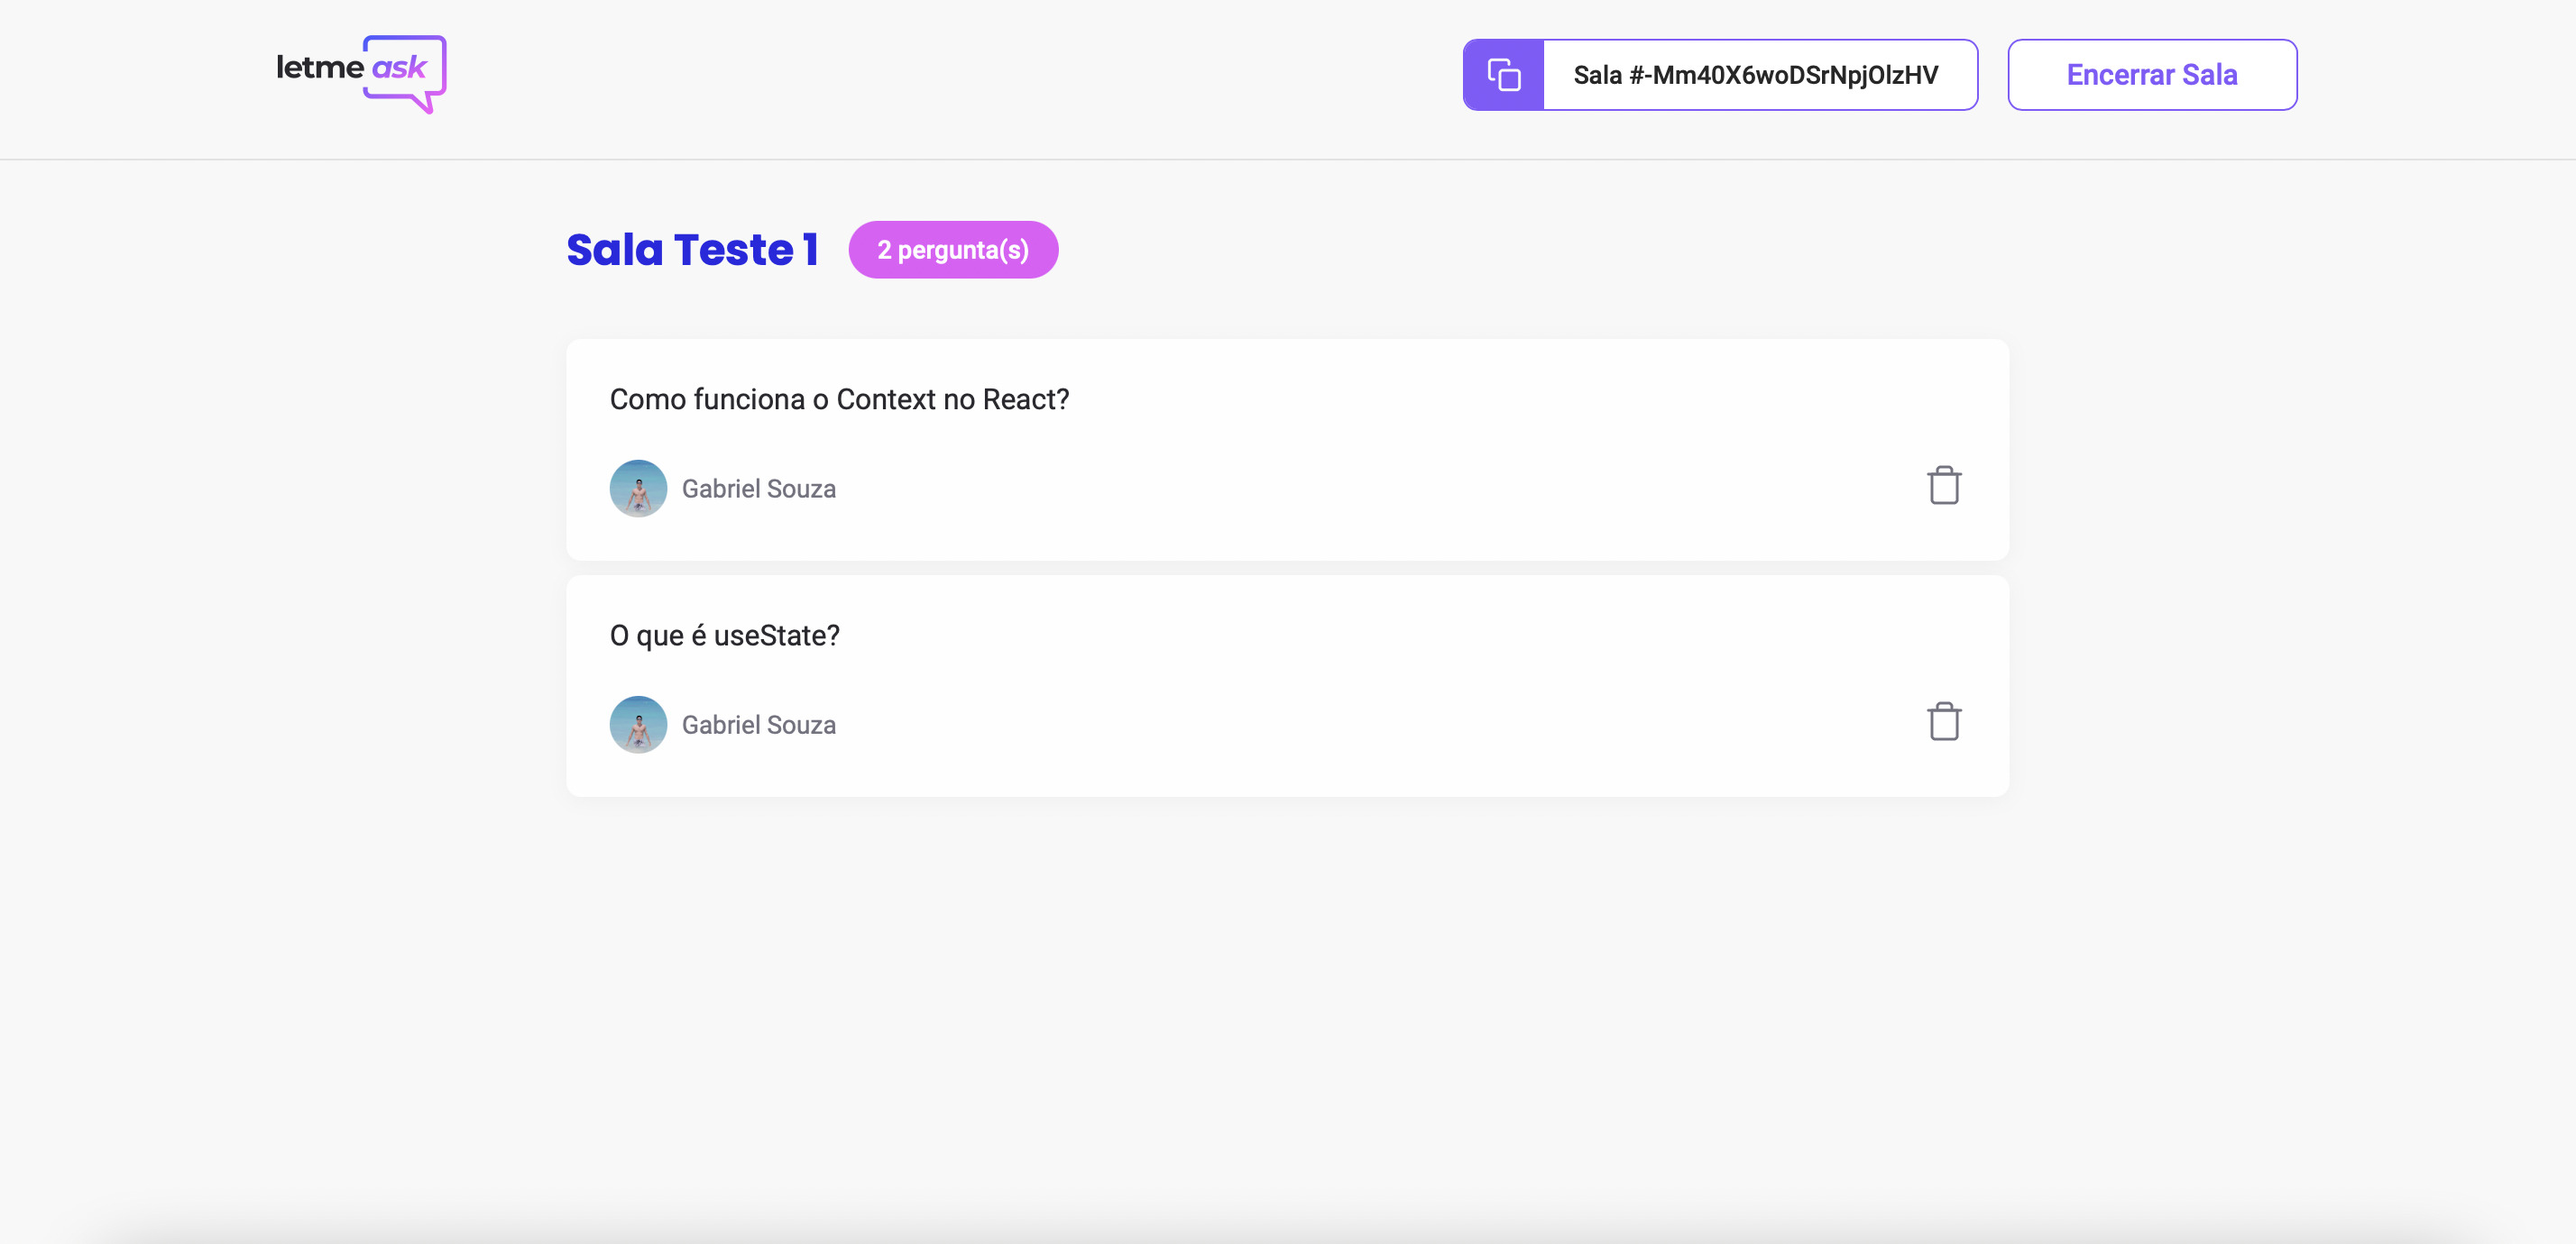
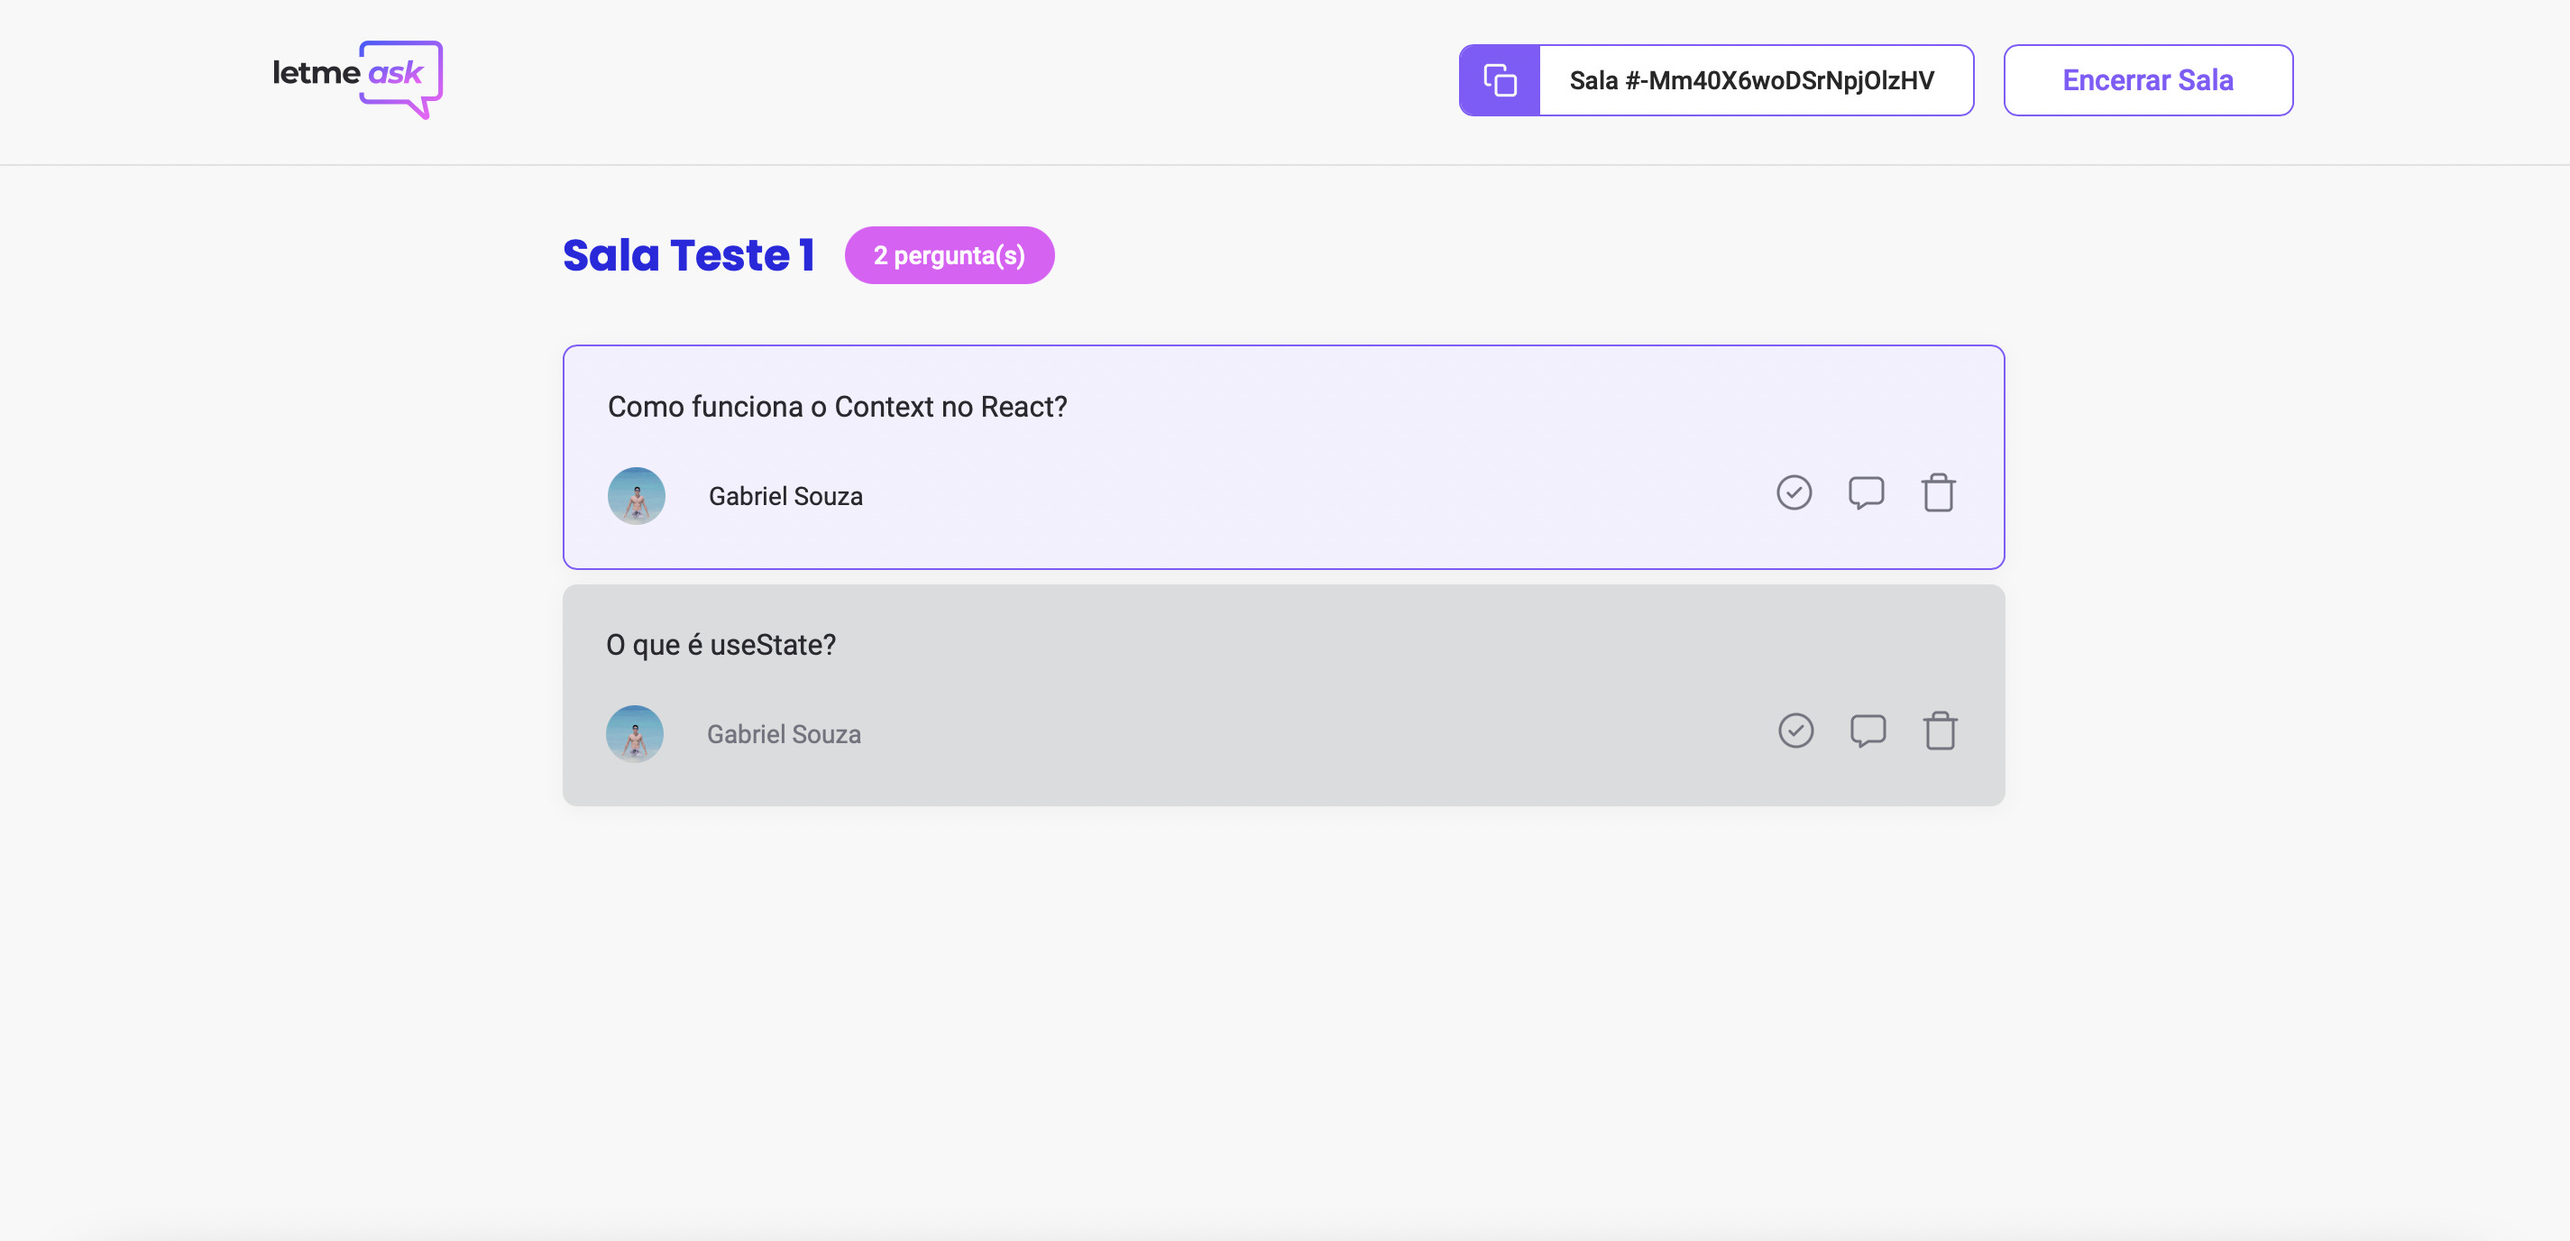
dia 5 completo

diff --git a/src/Pages/Room.tsx b/src/Pages/Room.tsx
@@ -98,32 +98,40 @@ const Room = () => {
                 key={question.id}
                 content={question.content}
                 author={question.author}
+                isAnswered={question.isAnswered}
+                isHighlighted={question.isHighlighted}
               >
-                <button
-                  className={`like-button ${question.hasLiked ? `liked` : ``}`}
-                  type="button"
-                  aria-label="Marcar como gostei."
-                  onClick={() =>
-                    handleLikeQuestion(question.id, question.hasLiked)
-                  }
-                >
-                  {question.likeCount > 0 && <span>{question.likeCount}</span>}
-                  <svg
-                    width="24"
-                    height="24"
-                    viewBox="0 0 24 24"
-                    fill="none"
-                    xmlns="http://www.w3.org/2000/svg"
+                {!question.isAnswered && (
+                  <button
+                    className={`like-button ${
+                      question.hasLiked ? `liked` : ``
+                    }`}
+                    type="button"
+                    aria-label="Marcar como gostei."
+                    onClick={() =>
+                      handleLikeQuestion(question.id, question.hasLiked)
+                    }
                   >
-                    <path
-                      d="M7 22H4C3.46957 22 2.96086 21.7893 2.58579 21.4142C2.21071 21.0391 2 20.5304 2 20V13C2 12.4696 2.21071 11.9609 2.58579 11.5858C2.96086 11.2107 3.46957 11 4 11H7M14 9V5C14 4.20435 13.6839 3.44129 13.1213 2.87868C12.5587 2.31607 11.7956 2 11 2L7 11V22H18.28C18.7623 22.0055 19.2304 21.8364 19.5979 21.524C19.9654 21.2116 20.2077 20.7769 20.28 20.3L21.66 11.3C21.7035 11.0134 21.6842 10.7207 21.6033 10.4423C21.5225 10.1638 21.3821 9.90629 21.1919 9.68751C21.0016 9.46873 20.7661 9.29393 20.5016 9.17522C20.2371 9.0565 19.9499 8.99672 19.66 9H14Z"
-                      stroke="#737380"
-                      strokeWidth="1.5"
-                      strokeLinecap="round"
-                      strokeLinejoin="round"
-                    />
-                  </svg>
-                </button>
+                    {question.likeCount > 0 && (
+                      <span>{question.likeCount}</span>
+                    )}
+                    <svg
+                      width="24"
+                      height="24"
+                      viewBox="0 0 24 24"
+                      fill="none"
+                      xmlns="http://www.w3.org/2000/svg"
+                    >
+                      <path
+                        d="M7 22H4C3.46957 22 2.96086 21.7893 2.58579 21.4142C2.21071 21.0391 2 20.5304 2 20V13C2 12.4696 2.21071 11.9609 2.58579 11.5858C2.96086 11.2107 3.46957 11 4 11H7M14 9V5C14 4.20435 13.6839 3.44129 13.1213 2.87868C12.5587 2.31607 11.7956 2 11 2L7 11V22H18.28C18.7623 22.0055 19.2304 21.8364 19.5979 21.524C19.9654 21.2116 20.2077 20.7769 20.28 20.3L21.66 11.3C21.7035 11.0134 21.6842 10.7207 21.6033 10.4423C21.5225 10.1638 21.3821 9.90629 21.1919 9.68751C21.0016 9.46873 20.7661 9.29393 20.5016 9.17522C20.2371 9.0565 19.9499 8.99672 19.66 9H14Z"
+                        stroke="#737380"
+                        strokeWidth="1.5"
+                        strokeLinecap="round"
+                        strokeLinejoin="round"
+                      />
+                    </svg>
+                  </button>
+                )}
               </Question>
             );
           })}

diff --git a/src/Pages/AdminRoom.tsx b/src/Pages/AdminRoom.tsx
@@ -1,7 +1,9 @@
 import { useState } from "react";
 import { useHistory, useParams } from "react-router-dom";
 import logoImg from "../Assets/images/logo.svg";
-import deleImg from "../Assets/images/delete.svg";
+import deleteImg from "../Assets/images/delete.svg";
+import checkImg from "../Assets/images/check.svg";
+import answerImg from "../Assets/images/answer.svg";
 import Button from "../Components/Button";
 import Question from "../Components/Question";
 import RoomCode from "../Components/RoomCode";
@@ -35,6 +37,18 @@ const AdminRoom = () => {
     }
   }
 
+  async function handleCheckQuestionAsAnswered(questionId: string) {
+    await database.ref(`rooms/${code}/questions/${questionId}`).update({
+      isAnswered: true,
+    });
+  }
+
+  async function handleHighlightQuestion(questionId: string) {
+    await database.ref(`rooms/${code}/questions/${questionId}`).update({
+      isHighlighted: true,
+    });
+  }
+
   return (
     <div id="page-room">
       <header>
@@ -60,12 +74,26 @@ const AdminRoom = () => {
                 key={question.id}
                 content={question.content}
                 author={question.author}
+                isAnswered={question.isAnswered}
+                isHighlighted={question.isHighlighted}
               >
+                <button
+                  type="button"
+                  onClick={() => handleCheckQuestionAsAnswered(question.id)}
+                >
+                  <img src={checkImg} alt="Marcar pergunta como respondida" />
+                </button>
+                <button
+                  type="button"
+                  onClick={() => handleHighlightQuestion(question.id)}
+                >
+                  <img src={answerImg} alt="Dar destaque à pergunta" />
+                </button>
                 <button
                   type="button"
                   onClick={() => handleDeleteQuestion(question.id)}
                 >
-                  <img src={deleImg} alt="Remover pergunta" />
+                  <img src={deleteImg} alt="Remover pergunta" />
                 </button>
               </Question>
             );

diff --git a/src/Components/Question.tsx b/src/Components/Question.tsx
@@ -8,11 +8,23 @@ type QuestionProps = {
     avatar: string;
   };
   children?: ReactNode;
+  isAnswered?: boolean;
+  isHighlighted?: boolean;
 };
 
-const Question = ({ content, author, children }: QuestionProps) => {
+const Question = ({
+  content,
+  author,
+  isAnswered = false,
+  isHighlighted = false,
+  children,
+}: QuestionProps) => {
   return (
-    <div className="question">
+    <div
+      className={`question ${isAnswered ? "answered" : ""} ${
+        isHighlighted ? "highlighted" : ""
+      }`}
+    >
       <p>{content}</p>
       <footer>
         <div className="user-info">

diff --git a/src/Styles/question.scss b/src/Styles/question.scss
@@ -9,6 +9,20 @@
     margin-top: 8px;
   }
 
+  &.highlighted {
+    background: #f4f0ff;
+    border: 1px solid #835afd;
+
+    footer .user-info span {
+      color: #29292e;
+    }
+  }
+
+  &.answered {
+    background: #dbdcdd;
+    border: none;
+  }
+
   p {
     color: #29292e;
   }
@@ -34,6 +48,11 @@
         color: #737380;
         font-size: 14px;
       }
+    }
+
+    > div {
+      display: flex;
+      gap: 16px;
     }
 
     button {
